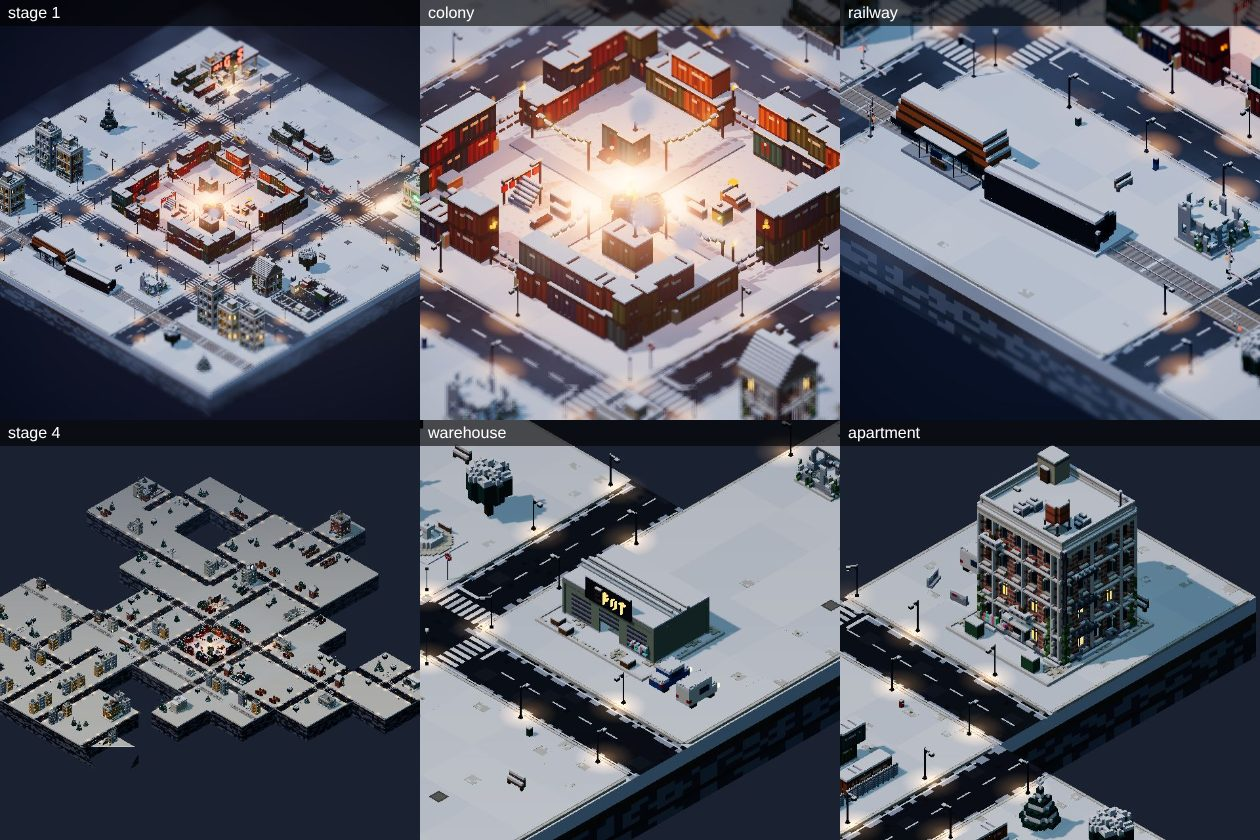
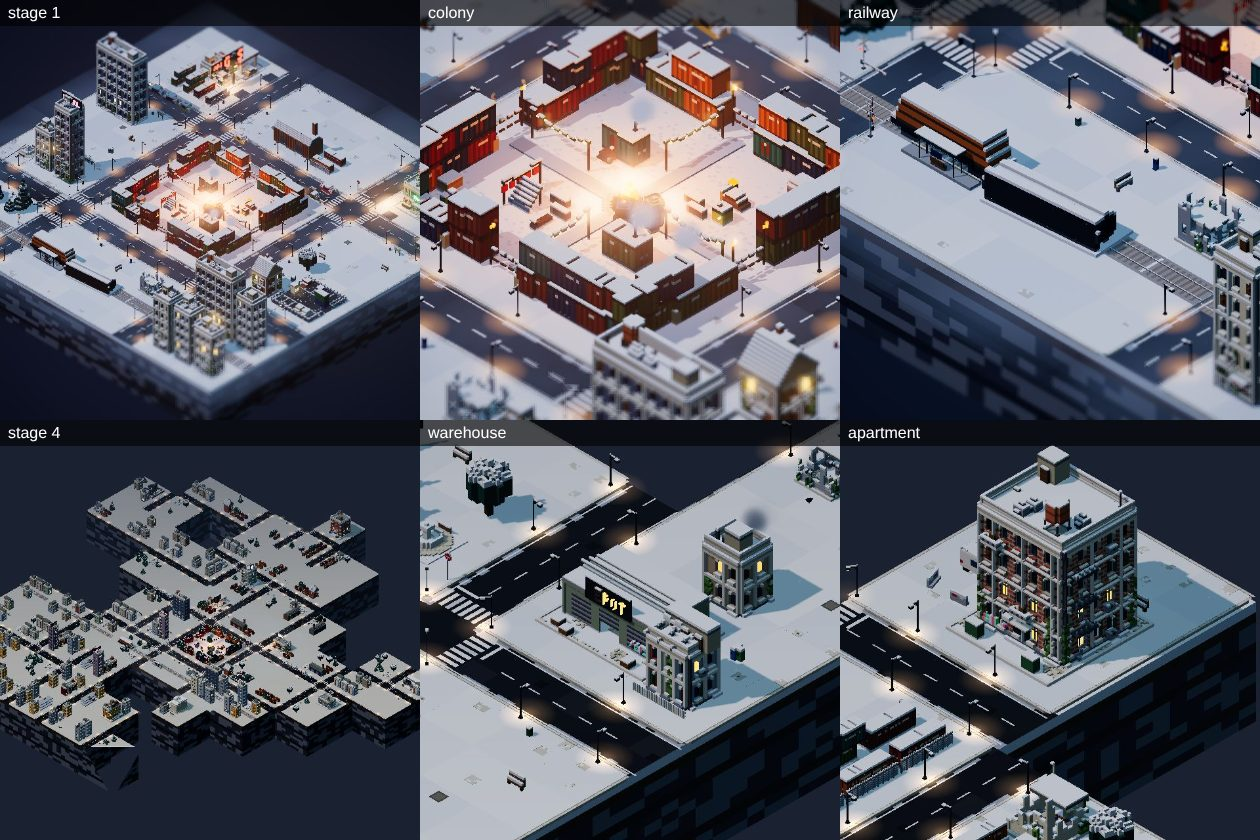
MAP-5 part 2: crows that take off when the camera comes close, smoke from city chimneys, strings of lights across side streets; drop unused filler models; budgets noted
Claude-Session: https://claude.ai/code/session_01QukSoSL7rSXNw6vdcpJ2RK

diff --git a/src/render/board.js b/src/render/board.js
@@ -6,7 +6,7 @@ import { VoxelModel, hash3, MATERIALS, geometriesFor, groupOf, packedBounds } fr
 import { P } from './palette.js';
 import { LOCATION_BUILDERS_HD, colonyHD, treeModelHD, rockModelHD } from './buildings.js';
 import { buildTerrainHD, ROAD } from './terrain.js';
-import { carModel, lampModel, containerModel, clutterModel, CLUTTER_KINDS, crossingModel, wagonModel, bufferStopModel, shelterModel, stopSignModel, directionSignModel, safeZoneModel, fenceModel, campModel, laundryModel, FURNITURE, furnitureModel, trafficLightModel, streetSignModel, powerPoleModel, vehicleModel, checkpointModel, burntCarModel, tentModel, statueModel } from './props.js';
+import { carModel, lampModel, containerModel, clutterModel, CLUTTER_KINDS, crossingModel, wagonModel, bufferStopModel, shelterModel, stopSignModel, directionSignModel, safeZoneModel, fenceModel, campModel, laundryModel, crowModel, bulbModel, FURNITURE, furnitureModel, trafficLightModel, streetSignModel, powerPoleModel, vehicleModel, checkpointModel, burntCarModel, tentModel, statueModel } from './props.js';
 import { markingQuads, lampSpots, railQuads, streetRuns, rampQuads } from './streets.js';
 import { blockSlab, GROUND } from './ground.js';
 import { mergeGeometries } from 'three/examples/jsm/utils/BufferGeometryUtils.js';
@@ -757,6 +757,7 @@ export function createBoard({ progressive = false } = {}) {
   const debugItems = []; // MAP audit: merged furniture pieces { kind, box }
   const houseSpots = []; // MAP-4: roof edges of small buildings (service drops from the power lines)
   const courtyards = []; // MAP-5: courtyard spots { p, face, what }
+  const crowPerches = []; const BASE_CHIMNEYS = 3; // the colony's two houses + the dorm
   root.add(decor);
   let flickers = []; let pools = null;
   function buildStreetDecor() {
@@ -888,12 +889,11 @@ export function createBoard({ progressive = false } = {}) {
     // Power lines (MAP-4): poles every 12 on one sidewalk, cross arm ACROSS the street; each of the 3 wires runs from
     // insulator to insulator, the ends taken from the pole's full transform (a leaning pole carries its wires).
     // Runs end with a guy wire to the ground; wires from a fallen pole's neighbours hang to the ground beside it.
-    const wires = [];
+    const wires = []; const livePoles = [];
     const INS = [-0.9, 0, 0.9].map((xo) => new THREE.Vector3(xo, 6.55, -0.05)); // insulators in pole space (0.1 voxels)
     const sag = (a, b) => { for (let s2 = 0; s2 < 10; s2++) { const u = s2 / 10; const v = (s2 + 1) / 10; const span = a.distanceTo(b); const pa = a.clone().lerp(b, u); pa.y -= Math.sin(u * Math.PI) * span * 0.05; const pb = a.clone().lerp(b, v); pb.y -= Math.sin(v * Math.PI) * span * 0.05; wires.push(pa.x, pa.y, pa.z, pb.x, pb.y, pb.z); } };
     const straight = (a, b) => wires.push(a.x, a.y, a.z, b.x, b.y, b.z);
     const long = runs.filter((r) => !(r.axis === rail.axis && Math.abs(r.c - rail.c) < 0.01)).sort((a, b) => (b.t1 - b.t0) - (a.t1 - a.t0) || a.c - b.c).slice(0, 2);
-    const livePoles = [];
     long.forEach((r, ri) => {
       const lat = -(ROAD.kerb + 1.0); // the arm (±1) stays over the sidewalk, clear of the building line
       const dirT = r.axis === 'x' ? new THREE.Vector3(1, 0, 0) : new THREE.Vector3(0, 0, 1);
@@ -935,10 +935,6 @@ export function createBoard({ progressive = false } = {}) {
       let best = null; let bd = 12;
       for (const p of livePoles) { const d = Math.hypot(p.base.x - h.roof.x, p.base.z - h.roof.z); if (d < bd) { bd = d; best = p; } }
       if (best) sag(best.ends[1], h.roof);
-    }
-    if (wires.length) {
-      const wg = new THREE.BufferGeometry(); wg.setAttribute('position', new THREE.Float32BufferAttribute(wires, 3));
-      const wl = new THREE.LineSegments(wg, WIRE_MAT); wl.name = 'wires'; decor.add(tagLod(wl, 'near'));
     }
     // The evacuation route: the street on the other axis beside the colony, cars abandoned nose to tail in the
     // outbound lane, a bus, a jack-knifed truck, and an army checkpoint near the colony.
@@ -999,6 +995,27 @@ export function createBoard({ progressive = false } = {}) {
       const [x, z] = rail.axis === 'x' ? [t, rail.c + lat] : [rail.c + lat, t];
       add('shelter', shelterModel, 0.1, x, GROUND, z, rail.axis === 'x' ? Math.PI : -Math.PI / 2);
     }
+    // MAP-5 overhead: strings of warm lights across a few side streets, from facade to facade.
+    runs.forEach((r, ri) => {
+      if (r.axis === ave.axis && Math.abs(r.c - ave.c) < 0.01) return;
+      for (let k = Math.ceil((r.t0 - 13.5) / 27); k * 27 + 13.5 <= r.t1; k++) {
+        const t = k * 27 + 13.5;
+        if (hash3(Math.round(t), ri, rail.look + 51) > 0.55 || near(...(r.axis === 'x' ? [t, r.c] : [r.c, t]), nodes, 9)) continue;
+        const P = (lat, y) => (r.axis === 'x' ? new THREE.Vector3(t, y, r.c + lat) : new THREE.Vector3(r.c + lat, y, t));
+        const a = P(-(ROAD.walk + 0.4), GROUND + 4.6); const b = P(ROAD.walk + 0.4, GROUND + 4.6);
+        if (!onSlab(a.x - (r.axis === 'x' ? 0 : 0.6), a.z - (r.axis === 'x' ? 0.6 : 0)) || !onSlab(b.x + (r.axis === 'x' ? 0 : 0.6), b.z + (r.axis === 'x' ? 0.6 : 0))) continue;
+        sag(a, b);
+        for (let q = 1; q < 10; q++) { const u = q / 10; const p = a.clone().lerp(b, u); p.y -= Math.sin(u * Math.PI) * a.distanceTo(b) * 0.05 + 0.08; add('bulb', bulbModel, 0.12, p.x, p.y, p.z, 0); }
+      }
+    });
+    // Crows on roof edges and on the power line arms.
+    crowPerches.length = 0;
+    houseSpots.forEach((hs, i) => { if (hash3(i, 7, rail.look) < 0.18) crowPerches.push(hs.roof.clone()); });
+    livePoles.forEach((p, i) => { if (hash3(i, 9, rail.look) < 0.25) crowPerches.push(p.ends[0].clone().add(new THREE.Vector3(0, 0.15, 0))); });
+    crowPerches.splice(40);
+    // Smoke from a few chimneys and burn barrels in the city (the colony's chimneys stay first).
+    fx.chimneys.splice(BASE_CHIMNEYS);
+    houseSpots.forEach((hs, i) => { if (fx.chimneys.length < BASE_CHIMNEYS + 5 && hash3(i, 11, rail.look) < 0.08) fx.chimneys.push(hs.roof.clone().add(new THREE.Vector3(0, 0.6, 0))); });
     // MAP-5 courtyards: a camp or a washing line with a snowman inside the blocks.
     for (const c of courtyards) {
       if (taken(c.p.x, c.p.z, 0.5)) continue;
@@ -1063,6 +1080,10 @@ export function createBoard({ progressive = false } = {}) {
           for (let i = 0; i < 5; i++) { const [x, z] = r.axis === 'x' ? [t + (i - 2) * 0.9, r.c + ROAD.walk - 1 - hash3(i, st, 47)] : [r.c + ROAD.walk - 1 - hash3(i, st, 47), t + (i - 2) * 0.9]; if (clear(x, z)) { const c = [1, 2, 3][i % 3]; add(`clutter-${c}`, () => clutterModel(c), 0.12, x, GROUND, z, i * 1.3); } }
         }
       }
+    }
+    if (wires.length) {
+      const wg = new THREE.BufferGeometry(); wg.setAttribute('position', new THREE.Float32BufferAttribute(wires, 3));
+      const wl = new THREE.LineSegments(wg, WIRE_MAT); wl.name = 'wires'; decor.add(tagLod(wl, 'near'));
     }
     const merge = (list, mat, name) => {
       if (!list.length) return;
@@ -1297,6 +1318,27 @@ export function createBoard({ progressive = false } = {}) {
     }
   }
 
+  // MAP-5 crows: perched on roof edges and pole arms; when the camera comes close they take off and circle away,
+  // settling again when it pulls back. One instanced mesh; nothing when the graphics tier is Battery saver.
+  const crowGeo = geometriesFor('crow', { size: 0.1, jitter: 0 }, crowModel).lit;
+  const crows = new THREE.InstancedMesh(crowGeo, MATERIALS.lit, 40); crows.count = 0; crows.frustumCulled = false; crows.name = 'crows';
+  root.add(crows);
+  let zoomNow = 1; let flight = 0;
+  function stepCrows(t, dt) {
+    const saver = typeof document !== 'undefined' && document.body?.dataset?.gfx === 'saver';
+    crows.visible = !saver && crowPerches.length > 0 && lodLevel < 2;
+    if (!crows.visible) return;
+    flight += ((zoomNow > 1.6 ? 1 : 0) - flight) * Math.min(1, dt * (zoomNow > 1.6 ? 1.5 : 0.3));
+    crows.count = crowPerches.length;
+    crowPerches.forEach((p, i) => {
+      const a = i * 2.4 + t * 0.6; const f = flight;
+      tmp.position.set(p.x + Math.cos(a) * 6 * f, p.y + f * (5 + (i % 4)), p.z + Math.sin(a) * 6 * f);
+      tmp.rotation.set(0, f > 0.05 ? -a : i * 1.3, 0); tmp.scale.setScalar(1 + f * 0.3 * Math.abs(Math.sin(t * 12 + i))); tmp.updateMatrix();
+      crows.setMatrixAt(i, tmp.matrix);
+    });
+    crows.instanceMatrix.needsUpdate = true;
+  }
+
   let hovered = null;
   let selected = null;
   let lastT = null;
@@ -1319,6 +1361,7 @@ export function createBoard({ progressive = false } = {}) {
     setSelected(id) { selected = id; },
     /** MAP-2 D: the camera zoom picks the level of detail of city models. */
     setZoom(z) {
+      zoomNow = z;
       const level = z >= 0.8 ? 0 : z >= 0.56 ? 1 : 2; // MAP-3: a stage-4 overview (zoom ~0.5) uses the light level
       if (level === lodLevel) return;
       lodLevel = level;
@@ -1422,6 +1465,7 @@ export function createBoard({ progressive = false } = {}) {
       for (const c of batches) if (c.pop) stepPop(c, dt);
       for (let i = slotPops.length - 1; i >= 0; i--) { stepPop(slotPops[i], dt); if (!slotPops[i].pop) slotPops.splice(i, 1); }
       stepPuffs(dt);
+      stepCrows(t, dt);
       AMBER_MAT.visible = Math.floor(t * 1.6) % 2 === 0; // amber signals blink
       if (pools && flickers.length) {
         for (const [n, i] of flickers.entries()) { const f = Math.sin(t * 9 + n * 2.3) > 0.6 || Math.sin(t * 23 + n) > 0.93 ? 0.15 : 1; _c.setScalar(f); pools.setColorAt(i, _c); }

diff --git a/src/render/city.js b/src/render/city.js
@@ -684,46 +684,6 @@ export function colonySlot(kind, level = 0) {
   return m.snowCap(P.snow, 1, 1);
 }
 
-/** Filler block: a fenced parking lot with painted bays and a couple of wrecks. */
-export function parkingLot() {
-  const m = new VoxelModel(); const w = 56; const d = 48;
-  for (let x = 0; x < w; x++) for (let z = 0; z < d; z++) {
-    let c = C.asphalt;
-    if ((x % 9 === 0 && (z < 14 || z > d - 15)) || (z === 14 || z === d - 15)) c = C.paint;
-    if (hash3(x, 3, z) < 0.15) c = P.snow;
-    m.set(x, 0, z, c);
-  }
-  for (let x = 0; x < w; x++) { m.set(x, 1, 0, C.metalDark); m.set(x, 1, d - 1, C.metalDark); if (x % 4 === 0) { m.box(x, 1, 0, 1, 5, 1, C.metal); m.box(x, 1, d - 1, 1, 5, 1, C.metal); } m.set(x, 4, 0, C.metal); m.set(x, 4, d - 1, C.metal); }
-  for (let z = 0; z < d; z++) if (z < 18 || z > 30) { m.set(0, 1, z, C.metalDark); if (z % 4 === 0) m.box(0, 1, z, 1, 5, 1, C.metal); m.set(0, 4, z, C.metal); }
-  const car = (x, z, c) => { m.box(x, 1, z, 6, 3, 11, c); m.box(x, 4, z + 3, 6, 2, 5, c); m.box(x, 4, z + 2, 6, 2, 1, C.glass); for (const [dx, dz] of [[-1, 1], [6, 1], [-1, 8], [6, 8]]) m.box(x + dx, 0, z + dz, 1, 2, 2, 0x15171a); };
-  car(10, 2, 0xa63a2e); car(28, 2, 0x2b4170); car(19, d - 13, 0xd8b03a); car(37, d - 13, 0xe4e2da);
-  // A container stack in the corner.
-  for (let y = 0; y < 2; y++) m.box(42, 1 + y * 8, 18, 12, 8, 7, C.cont[y]);
-  return m.snowCap(P.snow, 1, 1);
-}
-
-/** Filler block: stacked shipping containers, crates and barrels. */
-export function containerYard() {
-  const m = new VoxelModel();
-  pad(m, 0, 0, 56, 48, 9);
-  let i = 0;
-  for (let gx = 4; gx < 50; gx += 16) for (let gz = 4; gz < 44; gz += 11) {
-    if (hash3(gx, gz, 1) < 0.25) continue;
-    const h = 1 + Math.floor(hash3(gx, gz, 2) * 3);
-    for (let k = 0; k < h; k++) {
-      const c = C.cont[(i + k) % 3];
-      for (let t = 0; t < 14; t++) for (let y = 0; y < 8; y++) for (let z = 0; z < 7; z++) {
-        const rib = t % 2 === 0 && (z === 0 || z === 6);
-        m.set(gx + t, 1 + k * 8 + y, gz + z, t === 0 || t === 13 ? 0x1c1f24 : rib ? c : (c & 0xfefefe) >> 1 | (c & 0x808080));
-      }
-    }
-    i++;
-  }
-  for (const [x, z] of [[2, 40], [5, 42], [50, 2]]) m.box(x, 1, z, 3, 3, 3, 0x8a5a2b);
-  for (const [x, z] of [[30, 40], [33, 41]]) m.box(x, 1, z, 2, 4, 2, 0x2f5fa8);
-  return m.snowCap(P.snow, 1, 1);
-}
-
 // ---------------------------------------------------------------- MAP-1: places found as the city grows
 
 export function warehouse() {
@@ -806,55 +766,6 @@ export function farmhouse() {
 }
 
 // ---------------------------------------------------------------- MAP-1: blocks without a place
-
-/** A town square: paving, a frozen fountain, benches and bare trees. */
-export function plaza() {
-  const m = new VoxelModel();
-  pad(m, 0, 0, 56, 48, 41);
-  for (let x = 0; x < 12; x++) for (let z = 0; z < 12; z++) {
-    const r = Math.hypot(x - 5.5, z - 5.5);
-    if (r < 6) m.box(22 + x, 1, 18 + z, 1, r > 4.6 ? 2 : 1, 1, r > 4.6 ? C.trim : 0xbfe3f5);
-  }
-  m.box(27, 1, 23, 2, 6, 2, C.trim); m.box(26, 7, 22, 4, 1, 4, C.trim);
-  for (const [x, z, r] of [[8, 10, 0], [44, 10, 0], [8, 36, 1], [44, 36, 1]]) {
-    m.box(x, 1, z, 7, 1, 2, 0x7a5a3a); m.box(x, 2, z + (r ? 0 : 1), 7, 2, 1, 0x7a5a3a);
-  }
-  for (const [x, z] of [[4, 4], [50, 4], [4, 42], [50, 42]]) { m.box(x, 1, z, 1, 9, 1, 0x4b3a2c); m.box(x - 2, 7, z, 5, 1, 1, 0x4b3a2c); m.box(x, 8, z - 2, 1, 1, 5, 0x4b3a2c); }
-  return m.snowCap(P.snow, 1, 1);
-}
-
-/** A snowed-in park: pines, a frozen pond, a playground frame. */
-export function park() {
-  const m = new VoxelModel();
-  for (let x = 0; x < 56; x++) for (let z = 0; z < 48; z++) {
-    const pond = Math.hypot((x - 36) / 1.3, z - 30) < 8;
-    m.set(x, 0, z, pond ? (hash3(x, 1, z) < 0.1 ? 0xe9f6ff : 0xa9cdea) : hash3(x, 3, z) < 0.05 ? C.mossDark : P.snow);
-  }
-  for (const [x, z, h] of [[6, 6, 14], [14, 30, 18], [46, 8, 16], [6, 40, 12], [26, 12, 15]]) {
-    m.box(x, 1, z, 1, 3, 1, 0x4b3a2c);
-    for (let k = 0; k < h - 3; k++) { const r = Math.max(0, Math.floor((h - 3 - k) / 3)); m.box(x - r, 4 + k, z - r, 2 * r + 1, 1, 2 * r + 1, k % 3 === 0 ? P.snow : 0x2f5a3c); }
-  }
-  for (const x of [16, 26]) m.box(x, 1, 40, 1, 8, 1, C.metal);
-  m.box(16, 8, 40, 11, 1, 1, C.metal);
-  m.box(19, 2, 40, 1, 6, 1, C.metalDark); m.box(23, 2, 40, 1, 6, 1, C.metalDark);
-  return m.snowCap(P.snow, 1, 1);
-}
-
-/** A collapsed building: broken walls, rubble, a bent girder. */
-export function ruins() {
-  const m = new VoxelModel();
-  pad(m, 0, 0, 56, 48, 43);
-  m.walls(8, 1, 8, 30, 10, 26, C.grey);
-  for (let x = 8; x < 38; x++) for (let z = 8; z < 34; z++) for (let y = 1; y < 11; y++) {
-    if (hash3(Math.floor(x / 3), y, Math.floor(z / 3)) < 0.35 + y * 0.05) m.remove?.(x, y, z);
-  }
-  for (let i = 0; i < 70; i++) {
-    const x = 6 + Math.floor(hash3(i, 1, 9) * 40); const z = 6 + Math.floor(hash3(i, 2, 9) * 34);
-    m.box(x, 1, z, 2, 1 + Math.floor(hash3(i, 3, 9) * 3), 2, hash3(i, 4, 9) < 0.5 ? C.greyDark : C.grey);
-  }
-  for (let k = 0; k < 14; k++) m.set(40 + Math.floor(k / 3), 1 + k, 20, C.rust);
-  return m.snowCap(P.snow, 1, 1);
-}
 
 // ---------------------------------------------------------------- MAP-1b: small buildings that fill a block's free chunks
 

diff --git a/src/render/props.js b/src/render/props.js
@@ -327,3 +327,14 @@ export function laundryModel() {
   m.set(8, 13, 14, 0xd9822b); m.set(7, 14, 14, 0x1c1f24); m.set(9, 14, 14, 0x1c1f24);
   return m;
 }
+
+/** A crow (0.1 world per voxel): perched pose; the board animates flight by moving the instance. */
+export function crowModel() {
+  const m = new VoxelModel();
+  m.box(-1, 1, 0, 3, 2, 1, 0x15171a); m.box(1, 3, 0, 1, 1, 1, 0x15171a); m.set(2, 3, 0, 0x3a3f46); m.set(-2, 2, 0, 0x15171a);
+  m.box(-1, 2, -1, 2, 1, 1, 0x1c1f24); m.box(-1, 2, 1, 2, 1, 1, 0x1c1f24); m.set(0, 0, 0, 0x3a3f46);
+  return m;
+}
+
+/** One warm bulb of a string of lights. */
+export function bulbModel() { return new VoxelModel().set(0, 0, 0, 0xffd27a, true); }

diff --git a/docs/rework-plan.md b/docs/rework-plan.md
@@ -478,3 +478,12 @@ hand from the Actions tab). One-time setup: Settings → Pages → Source: GitHu
 - 9 Hospital: no ER neon; the red cross is a framed white roof sign on posts (helipad moved back), a small cross plate on the ER canopy.
 - 10 Library: a classical civic building (symmetric hall, taller pavilion with 4 columns, entablature, pediment with a round window, low dome with a lantern, arched windows, plinth, full-width steps, lamp posts, book drop, noticeboard, one boarded window, a cracked column); no BOOKS neon.
 - 11 Power lines: cross arms across the street; wires end on the insulators computed from each pole's transform (a leaning pole carries them); poles lean / fall along the street; guy wires at the ends of every run; wires from a fallen pole's neighbours hang to the ground.
+
+### MAP-5 — a living, varied city (done, with limits)
+- Building sizes: new kinds — tall downtown blocks (5–7 floors, one with a HOTEL sign), row houses (3 narrow houses per chunk), office blocks, a cinema with a marquee and a vertical sign, a two-deck parking garage, industrial sheds with a chimney stack, landmark towers (8 floors + a crown and an aerial). Wide kinds span two chunks and lie along their street.
+- Skyline: downtown core (ring ≤ 2) mixes tall blocks and towers; residential gets row houses and gable houses; industrial wide sheds.
+- Density: downtown and residential blocks build their front row and (partly: downtown 60%, residential 40%) their back row facing the back street; the rows between are a courtyard / alley (one camp with a fire and tent, or a washing line with a snowman; alley clutter). 1 block in 8 stays open.
+- Life: crows on roof edges and pole arms that take off and circle when the camera comes close (zoom > 1.6), off in Battery saver; smoke from up to 5 city chimneys (the colony's stay first); strings of warm lights across some side streets; the existing lit windows and blinking lights.
+- Performance: the street heightmap is 1 world per cell (blocks are slabs on top); filler buildings reuse the authored model up close (no refined copy); stage 1 home 0.75 M triangles, stage 4 0.51 M, ≤ 292 draw calls (guard raised to 300); pack 2.77 MB gzip; entry 140 KB (budget raised to 145).
+- Not built: L-shaped corner buildings, skybridges, bracket signs, streets fading into the outskirts with fields and forest, tyre tracks / footprints decals, steam from manholes, ambience sounds.
+- Fix: a cleanup in MAP-4 had removed the small-building constants (SMALL_VARIANTS / SMALL_SCALE / SMALL_WALLS) from the source; the bake then failed silently and the published build was the one from before the cleanup. Restored. (npm run build did stop on the error; a log filter hid it, so builds are now checked for "baked N models" before publishing.)
